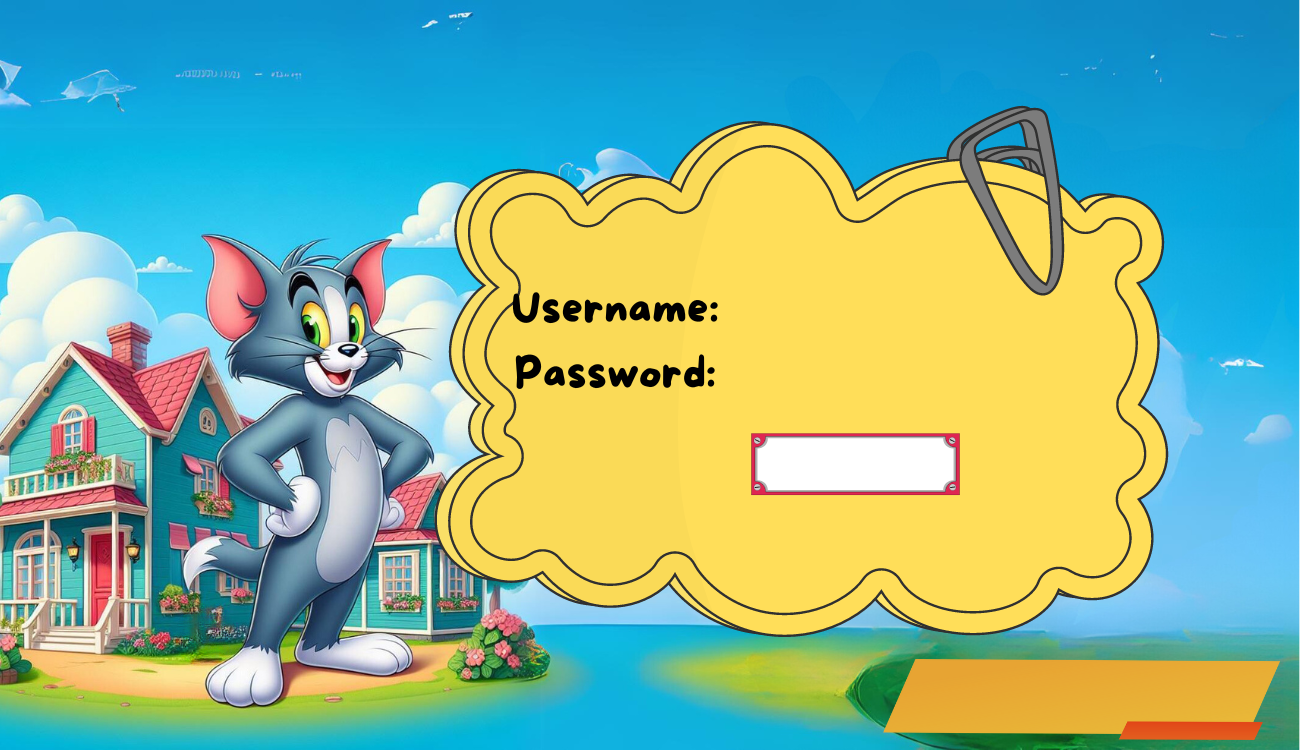
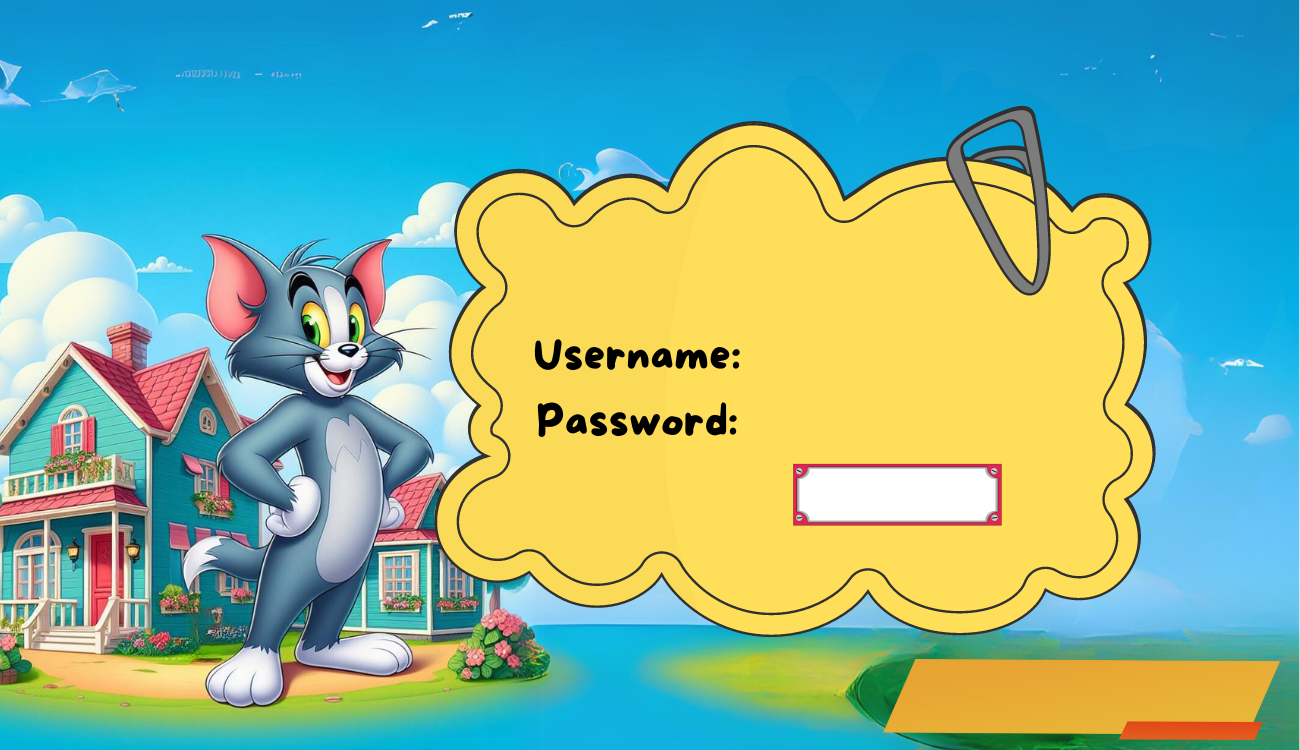
update login + register

Changed region(s): [[0.3385, 0.1227, 0.9231, 0.8587]]

diff --git a/login_startgame.py b/login_startgame.py
@@ -136,7 +136,7 @@ class LoginMenu():
 
         self.login_menu_theme = my_theme.copy()
         self.login_menu_theme.background_color = login_img
-        self.login_menu_theme.widget_offset = (0.38, 0.22)  
+        self.login_menu_theme.widget_offset = (0.395, 0.28)  
         self.login_menu_theme.title_close_button = True
         self.login_menu_theme.widget_alignment = pygame_menu.locals.ALIGN_LEFT
         
@@ -144,7 +144,7 @@ class LoginMenu():
         
         self.register_menu_theme = my_theme.copy()
         self.register_menu_theme.background_color = register_img
-        self.register_menu_theme.widget_offset = (0.38, 0.22)  
+        self.register_menu_theme.widget_offset = (0.395, 0.28) 
         self.register_menu_theme.title_close_button = True
         self.register_menu_theme.widget_alignment = pygame_menu.locals.ALIGN_LEFT
 
@@ -160,22 +160,22 @@ class LoginMenu():
 
         self.login_noti = self.login_menu.add.label('User Login')
         usern_login = self.login_menu.add.text_input(
-            title='                     ',
+            title='                       ',
             maxchar=10,
             textinput_id='username',
             input_underline = '__',
             # input_underline_vmargin = 3,
             onchange = self.reset_noti_login)
         passw_login = self.login_menu.add.text_input(
-            title='                     ',
+            title='                       ',
             maxchar=10,
             textinput_id='password',
             input_underline = '__',
             # input_underline_vmargin = 1,
             password=False,
             onchange = self.reset_noti_login)
-        self.login_menu.add.button('Login', self.check_login).translate(295,22)
-        self.login_menu.add.button('Return to main menu', pygame_menu.events.BACK).translate(440,180)
+        self.login_menu.add.button('Login', self.check_login).translate(323,5)
+        self.login_menu.add.button('Return to main menu', pygame_menu.events.BACK).translate(410,135)
 
     def init_register_menu(self):
         self.register_menu = pygame_menu.Menu(
@@ -201,8 +201,8 @@ class LoginMenu():
             input_underline = '__',
             password=False,
             onchange = self.reset_noti_regis)
-        self.register_menu.add.button('Register', self.check_register).translate(285,22)
-        self.register_menu.add.button('Return to main menu', pygame_menu.events.BACK).translate(440,180)
+        self.register_menu.add.button('Register', self.check_register).translate(305,5)
+        self.register_menu.add.button('Return to main menu', pygame_menu.events.BACK).translate(410,135)
 
     def init_main_menu(self):
          self.main_menu = pygame_menu.Menu(
